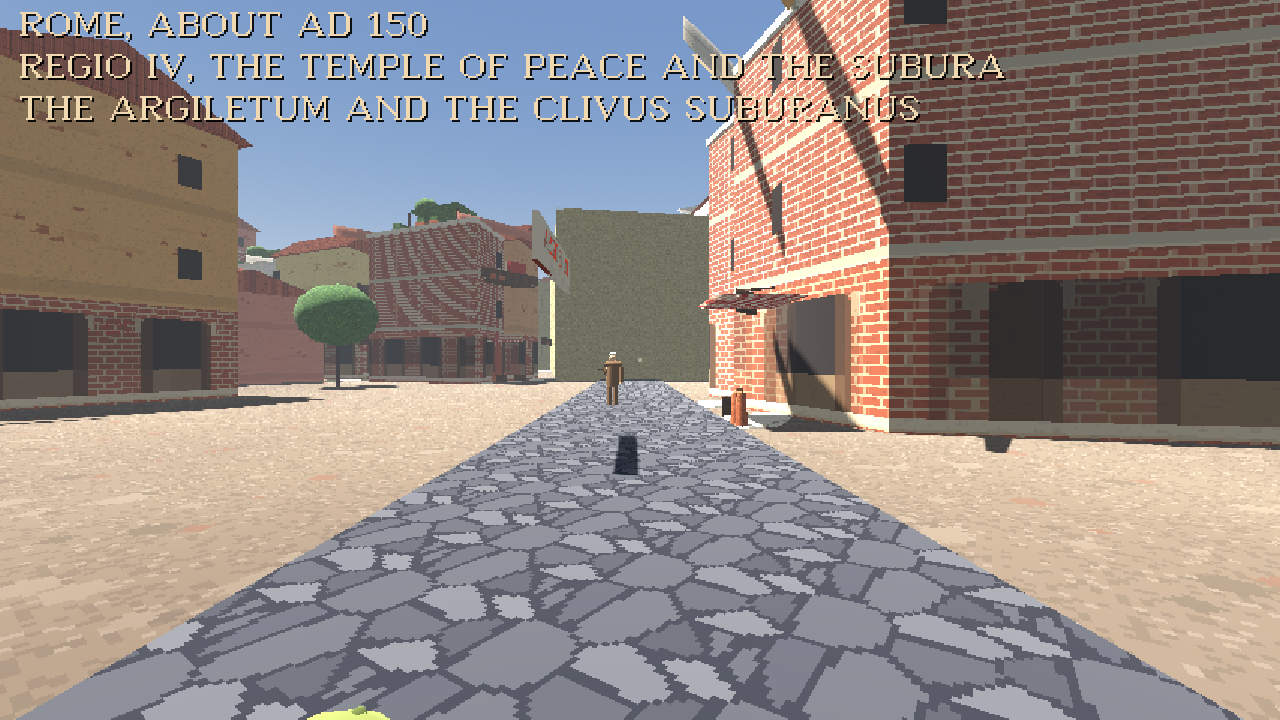
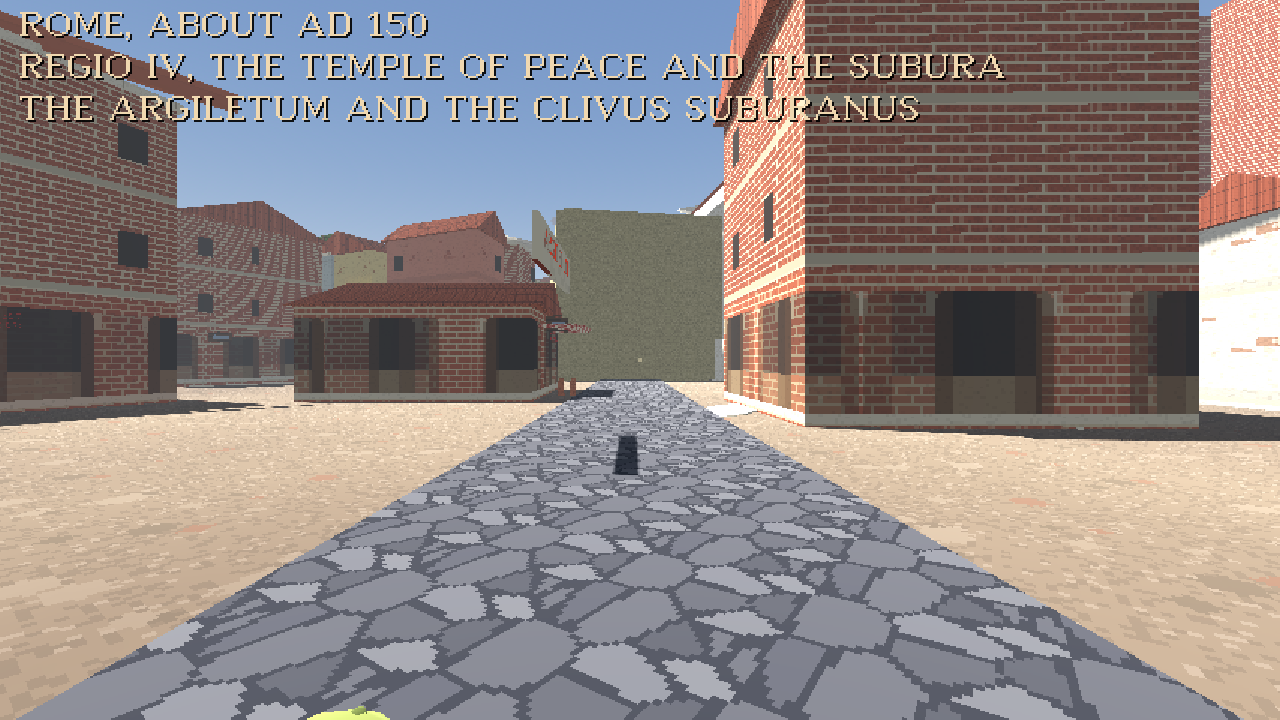
Lanes between the blocks, the Servian wall in every age, no house built into another
- Lanes of packed earth along the bent grid every third row and column, broken at the named
  streets, the squares, the monuments, the river and the wall; the houses front onto them as
  onto the named streets, on both sides (the side is part of the lining key), so the city is
  blocks of houses between streets.
- The Servian wall stands in every age, three metres thick with the agger behind it on the
  east, lower under the emperors; no house or lane is built across it.
- A house is not built where one already stands (`placed`, checked after a block is merged).
- docs/dev/walks updated: the Forum and the city from above with the lanes, the Subura's
  blocks, the wall at the Carmental Gate.

Claude-Session: https://claude.ai/code/session_01AARYbqC8yC2UvqKJzaBPka

Changed region(s): [[0.5312, 0.0, 1.0, 0.6417], [0.0, 0.0, 0.5, 0.6111]]

diff --git a/docs/rome-city.md b/docs/rome-city.md
@@ -80,8 +80,12 @@ Decided with BB1 (2026-09-28):
 - **River:** the Tiber runs between its banks, with the island, and bridges standing by date.
 - **Houses: a kit per age** (`rome_map._house`, `_old_house`, `_plot`, `_ruin`; the notes of
   `docs/rome-city-notes.md` 2.1, built 2026-09-29):
-  - A bent, twisting grid of blocks, each split into two or three houses of their own height,
-    kind and colour.
+  - A bent, twisting grid of cells, each split into two or three houses of their own height,
+    kind and colour. Between the cells run lanes of packed earth along the bent grid, every third
+    row and every third column (`_lanes`, `LANE`), broken at the named streets, the squares, the
+    monuments, the river and the wall; so the city is blocks of houses between streets. A house
+    near a street (named or lane) is lined up along it, its front a step from the kerb, one after
+    another on each side (`_nearest_road`, `lined`); no house is built into another (`placed`).
   - 280 and 201 BC: low houses of tufa blocks, or plaster over a timber frame with the timbers
     showing, one or two storeys under wide eaves of tiles or thatch, a blank wall to the street with
     a door in it, no shops. Two-thirds of the outer hills inside the wall (the Esquiline, the
@@ -148,7 +152,9 @@ Decided with BB1 (2026-09-28):
   plane in the valleys, bare rock outcrops on the Capitol's face (`_hill_tree`), round-headed trees
   in the squares, along the river and in the gardens, and bushes in the ruins.
 - **Walls and aqueducts:**
-  - The Servian wall stands.
+  - The Servian wall stands in every age, three metres thick with a tower at each gate, the agger
+    (the earth rampart) behind it on the east; lower under the emperors, when the city has spilled
+    over it. No house or lane is built across it, and the way along it is kept open.
   - Aurelian's wall stands far off from AD 275.
   - The Marcia, the Claudia and Nero's arches carry water until they are cut.
 
